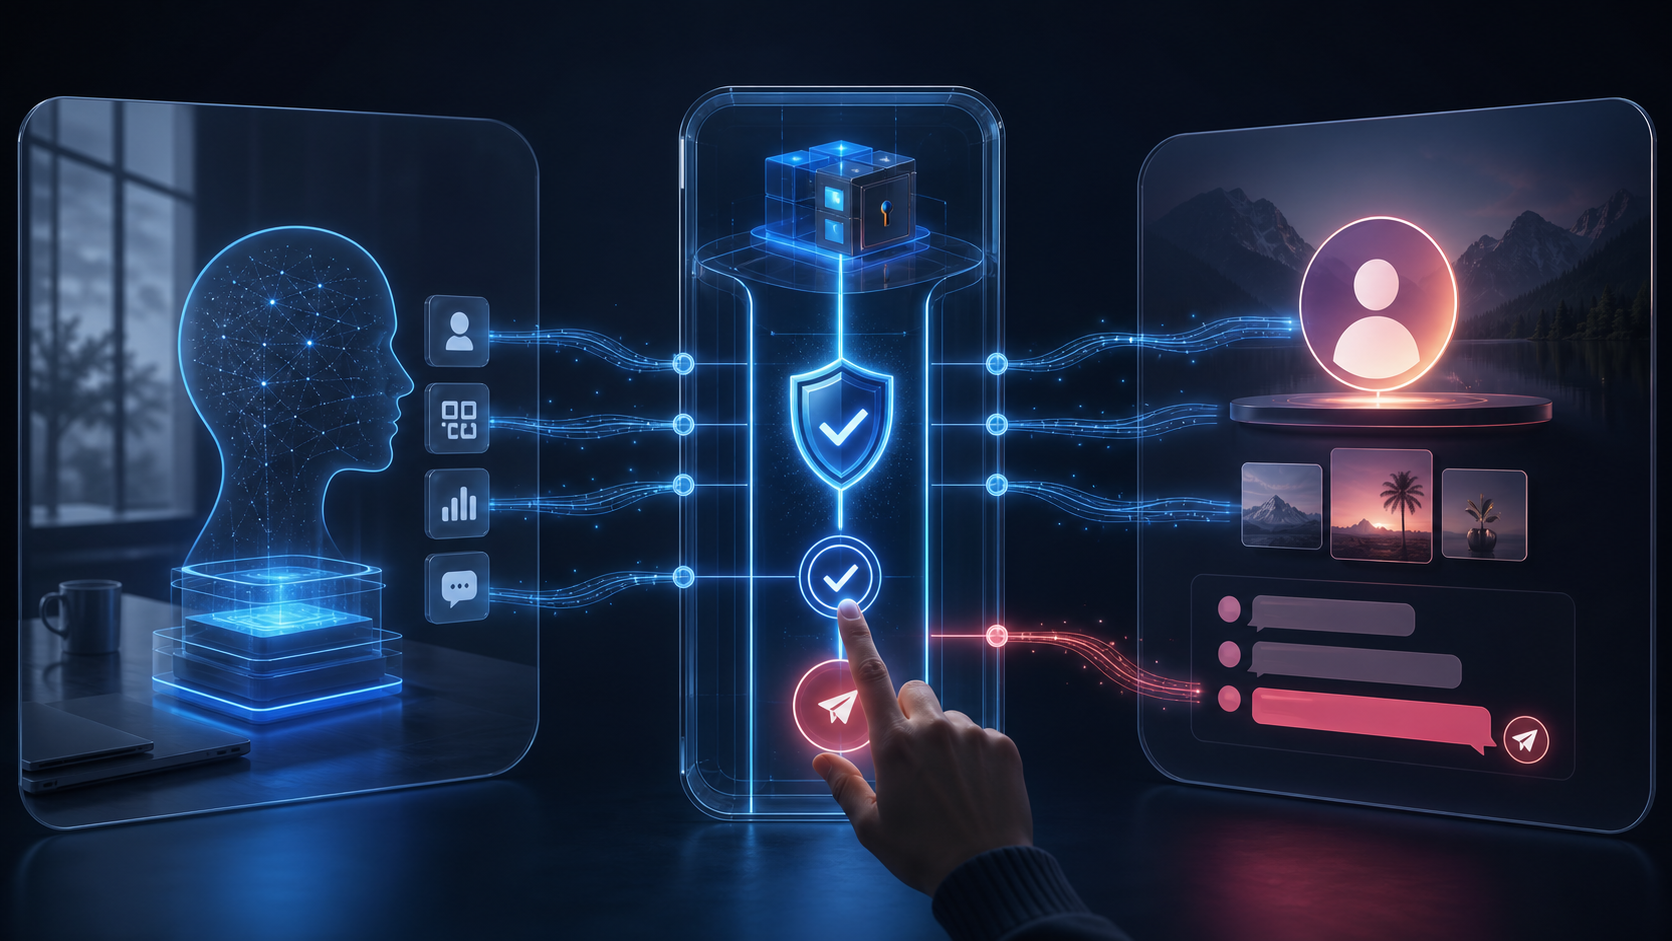
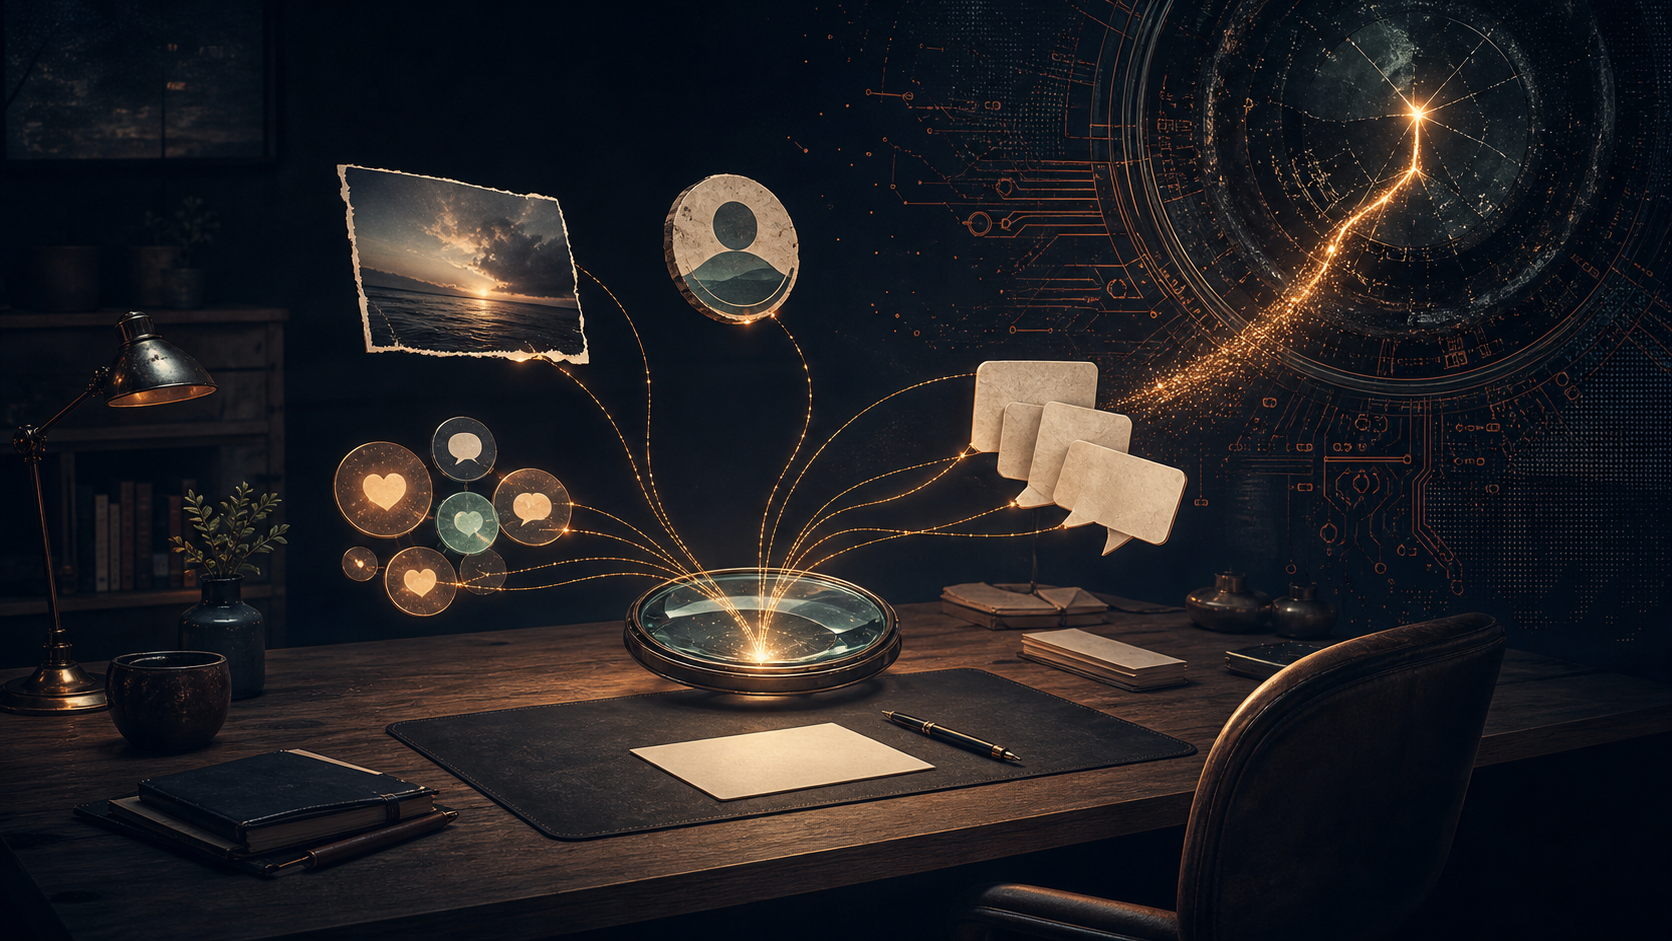
docs: refresh preview and audience slogan

diff --git a/README.md b/README.md
@@ -100,7 +100,7 @@ npm run build
 
 ![Концептуальная схема: AI-клиент, защищённый MCP-шлюз с явным подтверждением и один профессиональный аккаунт](docs/assets/preview.png)
 
-> Один Instagram-аккаунт, проверенные данные, ответ только после подтверждения.
+> Собирает важное из Instagram, чтобы слышать аудиторию внимательнее.
 
 ## Проверка
 
@@ -126,6 +126,7 @@ npm pack --dry-run --json
 <details>
 <summary>История версий README</summary>
 
+- 2026-07-20 · `28d951c` · `docs: add README history and project slogan` · [Открыть редакцию](https://github.com/lstunn25ai/mcp-insta/blob/28d951cb7ebcc886cb24c9f1ce01505a838740a6/README.md)
 - 2026-07-20 · `07b8e7d` · `docs: redesign README with verified preview` · [Открыть редакцию](https://github.com/lstunn25ai/mcp-insta/blob/07b8e7d68cb0a9e5d9e15b6779bc7cedf5d92b0f/README.md)
 - 2026-07-20 · `f600005` · `feat: establish secure Instagram MCP` · [Открыть редакцию](https://github.com/lstunn25ai/mcp-insta/blob/f60000576125de21260d869fda86902b9101a5f0/README.md)
 </details>